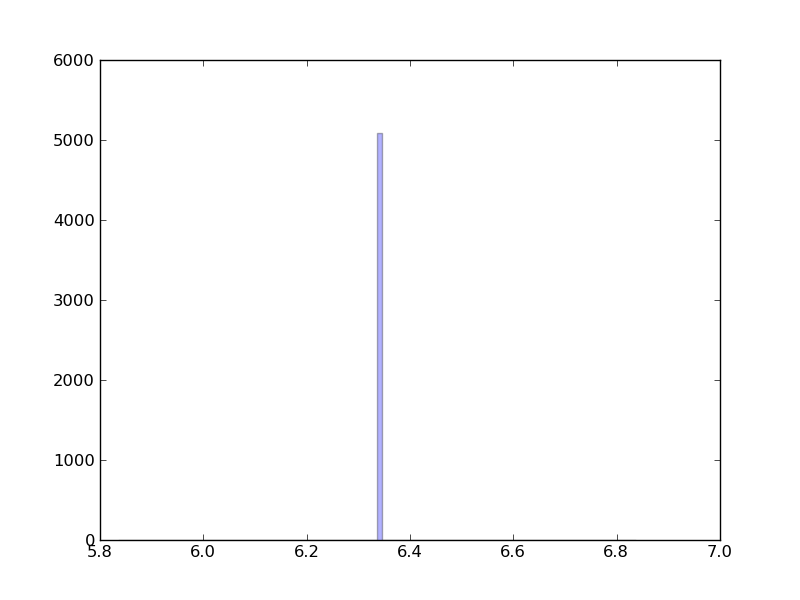
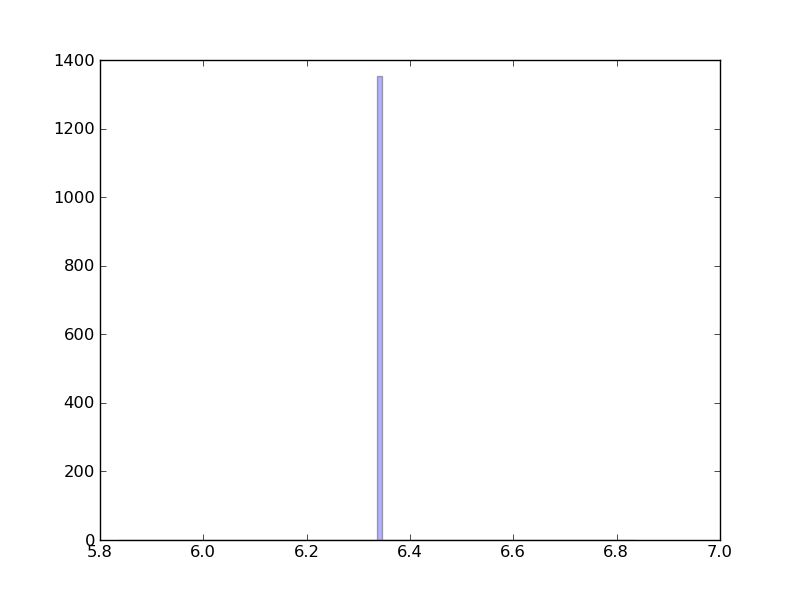
changed backgrounds now inside convolution

diff --git a/galsim_iter.py b/galsim_iter.py
@@ -399,7 +399,7 @@ class GalsimKernel:
     def kernel( self ):
 
         # Convert model to galsim image
-        self.im = galsim.Image( array = self.kicked_model, scale = self.pixel_scale ) # scale is arcsec/pixel
+        self.im = galsim.Image( array = self.kicked_model , scale = self.pixel_scale ) # scale is arcsec/pixel
 
         # Create interpolated image (can mess around with interp methods...)
         self.big_fft_params = galsim.GSParams(maximum_fft_size=10240)
@@ -410,6 +410,12 @@ class GalsimKernel:
 
         # Convolve the model with the psf for each epoch and draw to stamp, then pixelize --> self.simulated_image
         for epoch in np.arange(len(self.DES_PSFEx_files)):
+            #THE BACKGROUND IS CURRENTLY INSIDE THE CONVOLUTION...
+            background = galsim.Image( array = self.kicked_model*0.0 + self.galpos_backgrounds[epoch], scale = self.pixel_scale)
+            
+            background_model = galsim.InterpolatedImage( image = background, x_interpolant = 'linear')
+
+            self.gal_model = self.gal_model + background_model
 
             # Combine galaxy model and supernova
             self.total_gal = self.gal_model + self.sns[epoch]
@@ -475,7 +481,7 @@ class GalsimKernel:
         for epoch in np.arange(len(self.simulated_images)):
             this_sim_image_ravel = self.simulated_images[epoch].ravel()
             i = -1
-            chisq += np.sum( (this_sim_image_ravel + self.galpos_backgrounds[epoch] - self.real_data_stamps_ravel[epoch])**2 * self.weights_stamps_ravel[epoch])
+            chisq += np.sum( (this_sim_image_ravel - self.real_data_stamps_ravel[epoch])**2 * self.weights_stamps_ravel[epoch])
             #chisq += np.sum( (this_sim_image_ravel - self.real_data_stamps_ravel[epoch])**2 * self.weights_stamps_ravel[epoch])
             #for sim_pixel in this_sim_image_ravel:
             #    i += 1
@@ -757,7 +763,7 @@ if __name__=='__main__':
                         , SN_counts_guesses = SN_counts_guesses
                         )
     
-    #test.run()
+    test.run()
     test.plot_pixel_histograms()
     #Check backgrounds
     #write all data and sim files to fits
